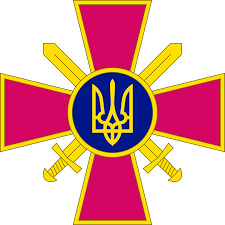
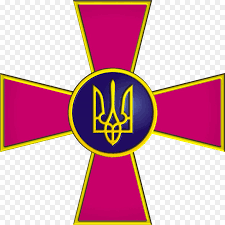
till_fix

Changed region(s): [[0.0, 0.0, 1.0, 1.0]]

diff --git a/index.html b/index.html
@@ -13,7 +13,7 @@
     <div class="container">
         <div class="title">
             <div class="logotype">
-                <img src="img/log_ok_picsel.jpg" alt="log_ok_picsel.jpg">
+                <img src="img/sv.png" alt="sv">
             </div>
             <div class="subdivision_name">
                 Відділ МПЗ
